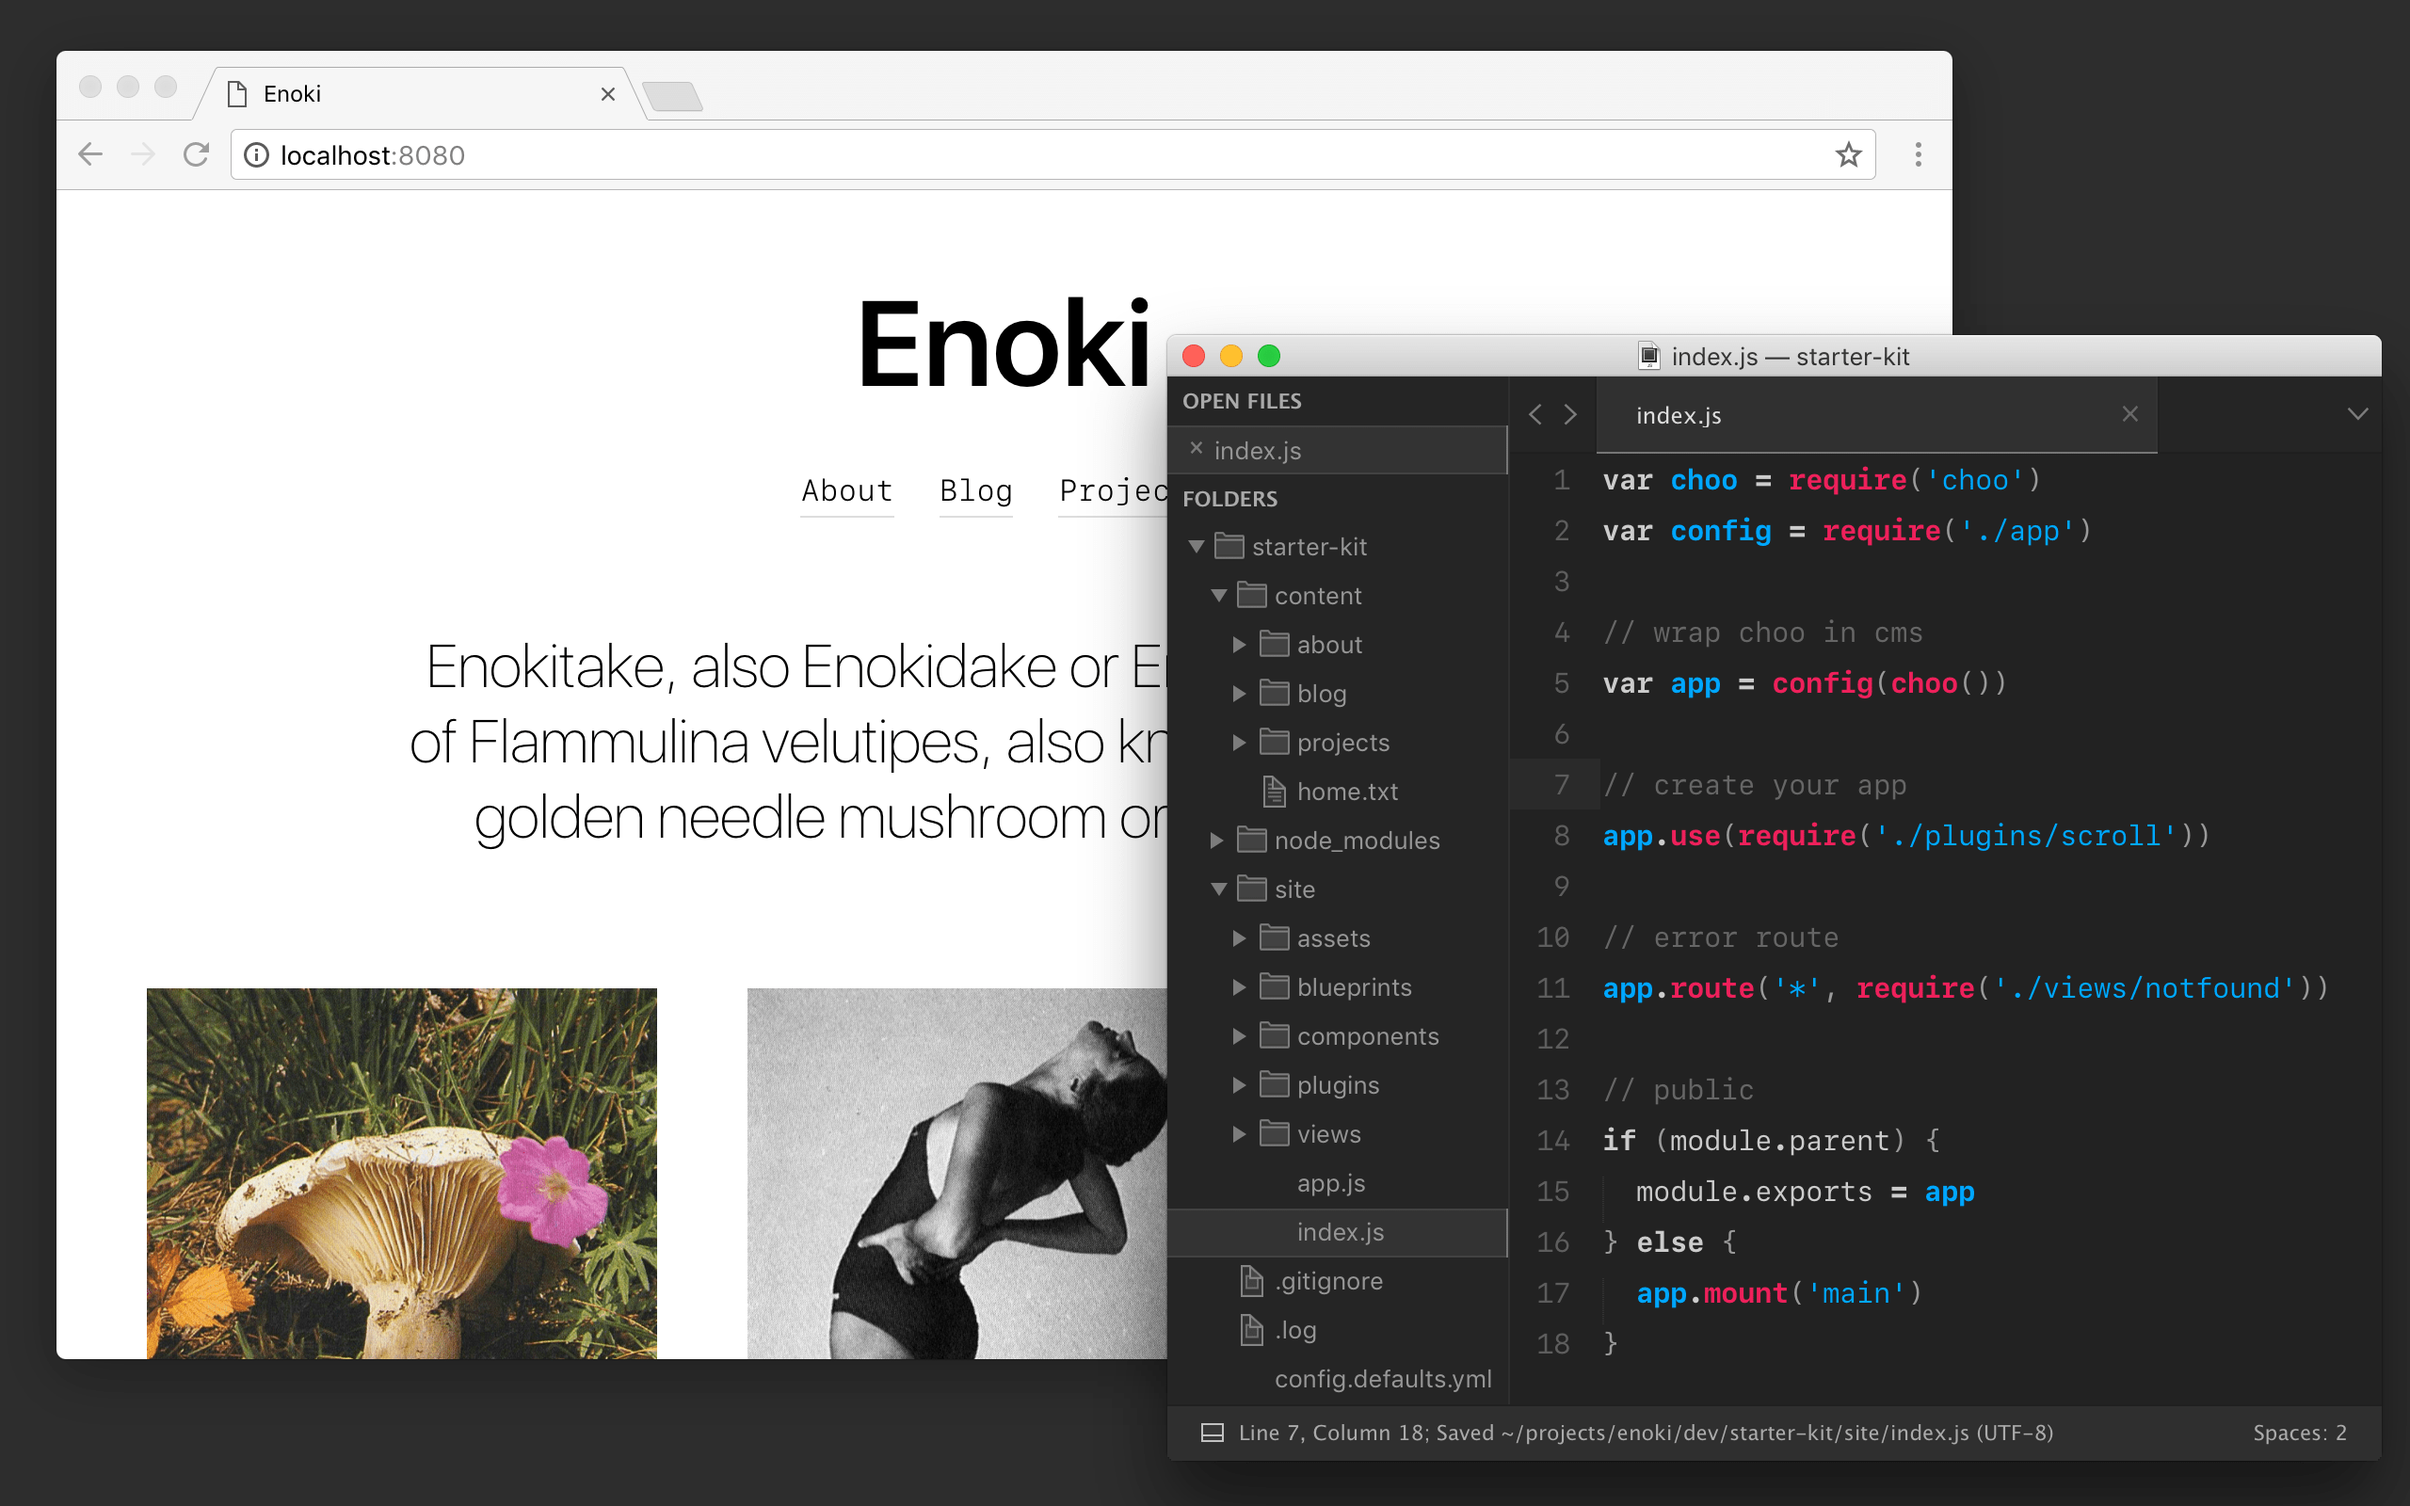
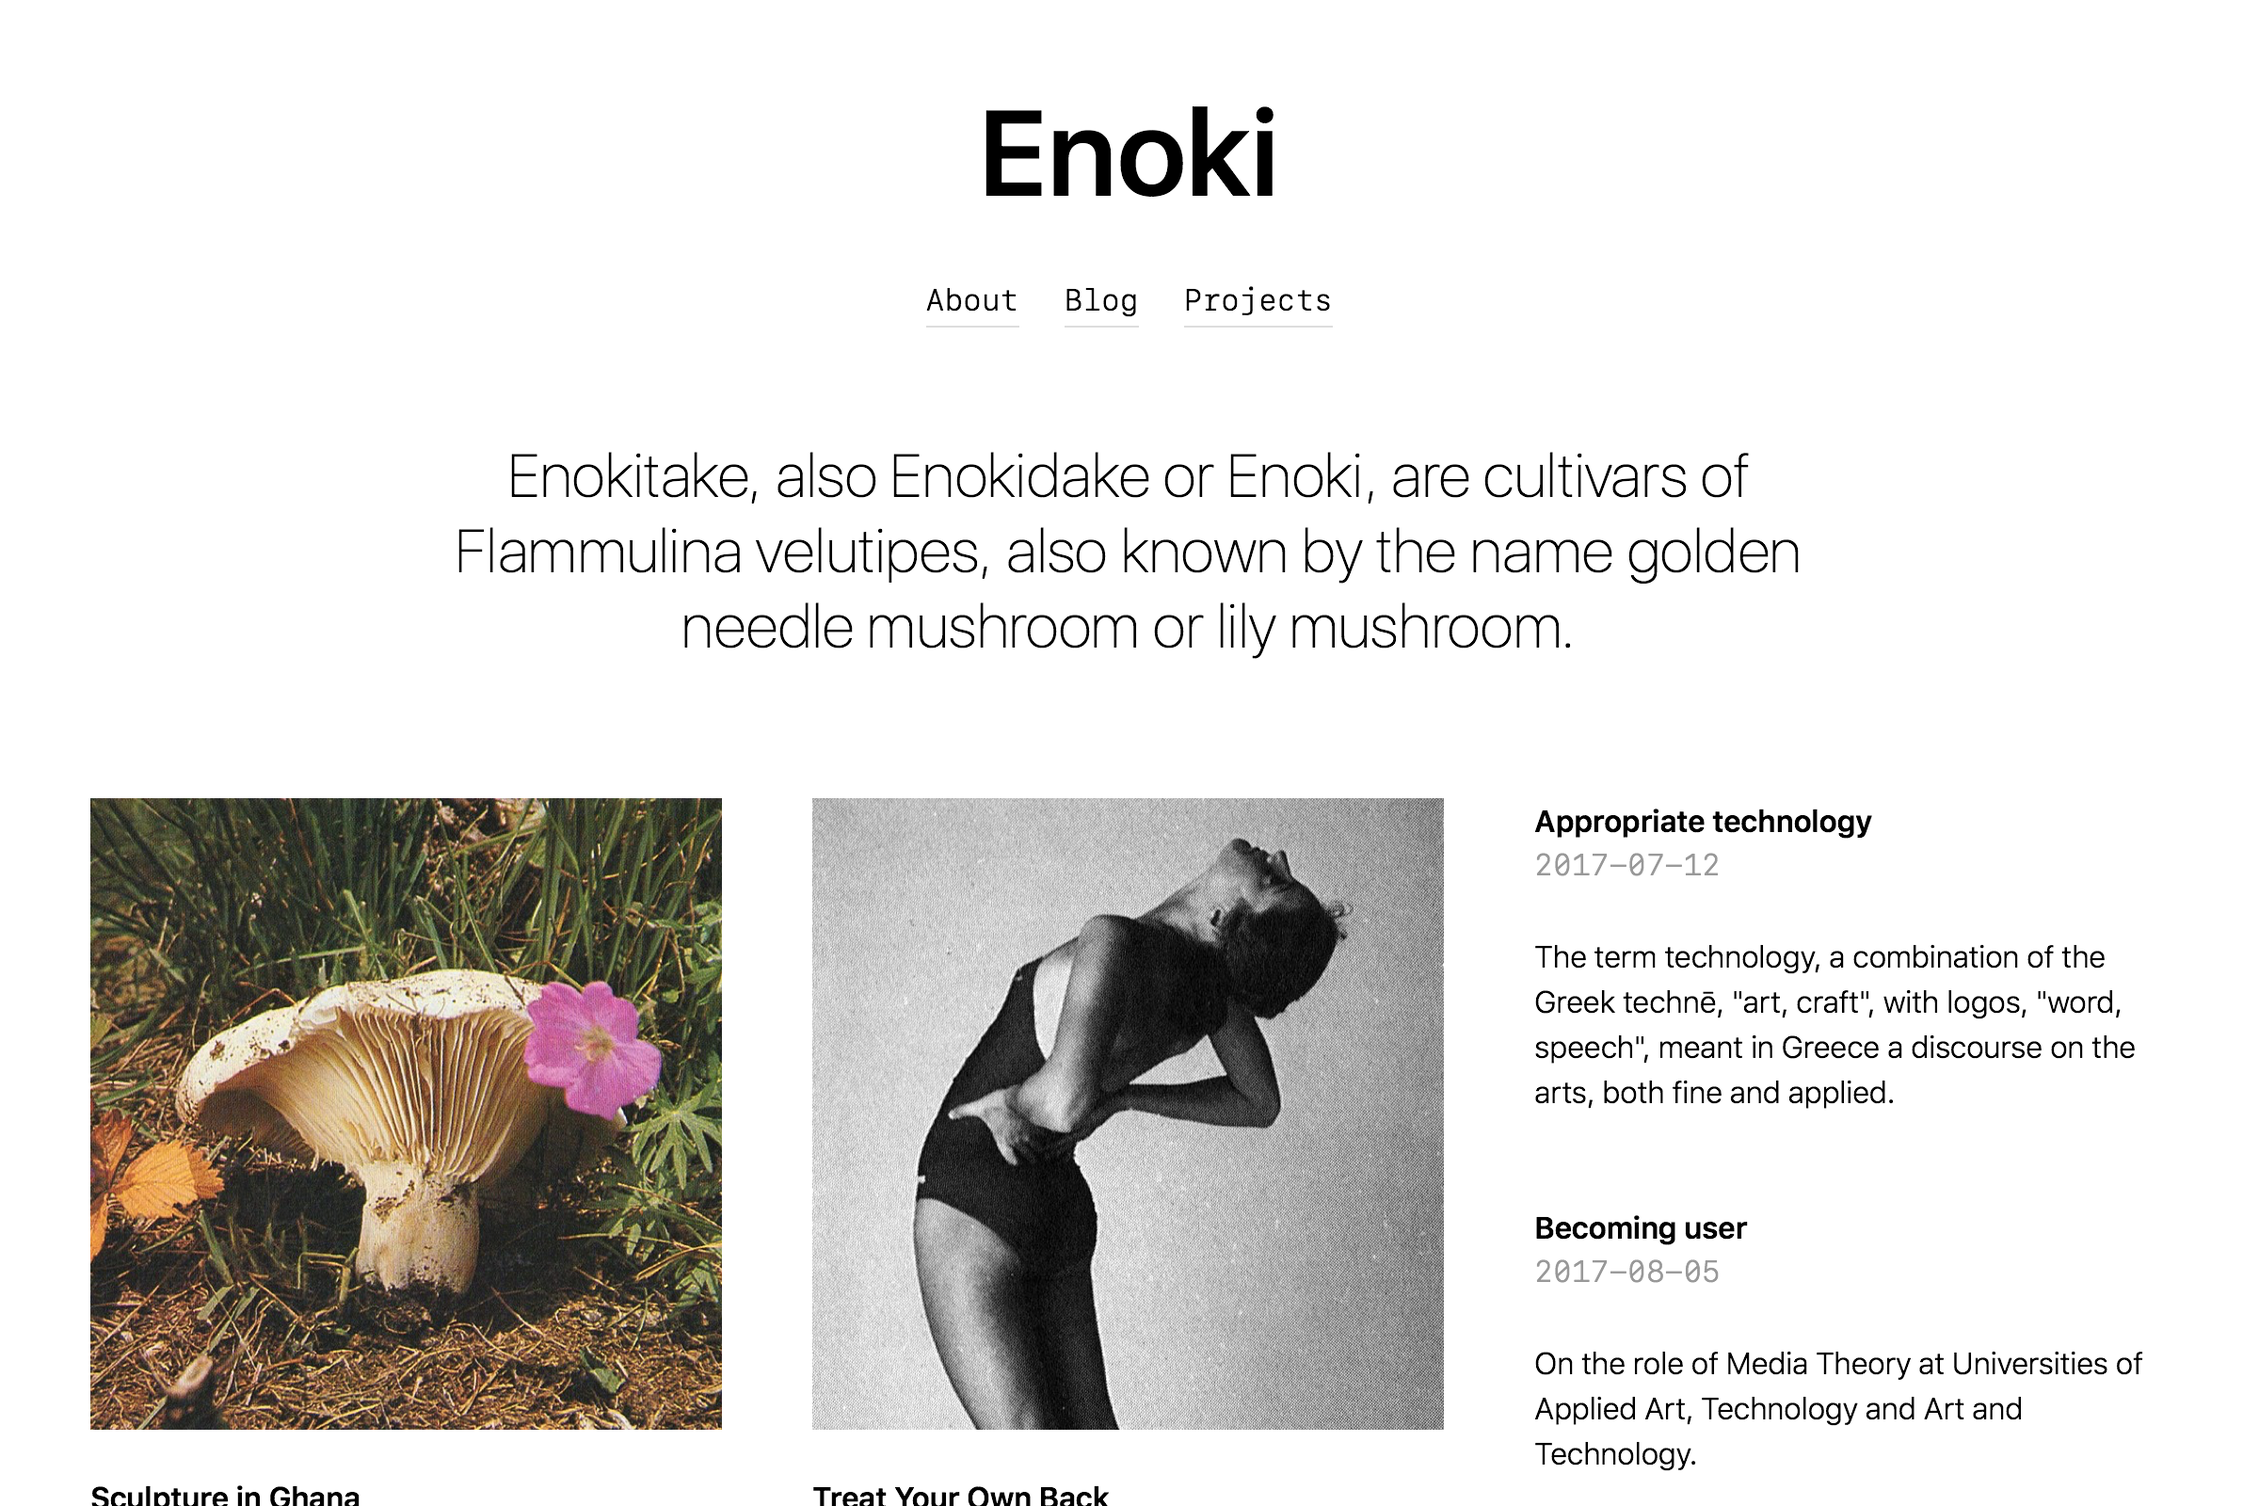
writing

diff --git a/site/assets/index.css b/site/assets/index.css
@@ -30,7 +30,7 @@ body {
   line-height: 1.4;
 }
 
-main {
+.wcontent {
   max-width: 1100px;
   margin: 0 auto;
 }
@@ -68,6 +68,7 @@ img { display: block }
 .psst { position: sticky; position: -webkit-sticky; }
 .psa { position: absolute }
 .psr { position: relative }
+.psf { position: fixed }
 .l0 { left: 0 }
 .t0 { top: 0 }
 .b0 { bottom: 0 }
@@ -76,7 +77,9 @@ img { display: block }
 .z2 { z-index: 2 }
 .z3 { z-index: 3 }
 
+.c1 { width: 8.3333333% }
 .c2 { width: 16.666667% }
+.c3 { width: 25% }
 .c4 { width: 33.3% }
 .c6 { width: 50% }
 .c8 { width: 66.6666667% }
@@ -88,10 +91,13 @@ img { display: block }
 .vhmn100 { min-height: 100vh }
 .mh50vh { min-height: 50vh }
 .mh25vh { min-height: 25vh }
-.wmxcopy { max-width: 30rem }
 .wmxheading { max-width: 55rem }
 .br1 { border-radius: 3px }
 .usn { user-select: none }
+
+.wmxcopy h2 { max-width: 55rem }
+.wmxcopy h3 { max-width: 40rem }
+.wmxcopy p { max-width: 35rem }
 
 .arrow-top { position: relative; }
 .arrow-top:before {
@@ -112,27 +118,30 @@ img { display: block }
 .p0-5 { padding: 0.5rem }
 .p1 { padding: 0.75rem }
 .p2 { padding: 1.5rem }
-.px1 { padding-left: 0.75; padding-right: 0.75; }
-.py1 { padding-top: 0.75; padding-left: 0.75; }
+.px1 { padding-left: 0.75rem; padding-right: 0.75rem; }
+.px2 { padding-left: 1.5rem; padding-right: 1.5rem; }
+.py1 { padding-top: 0.75rem; padding-bottom: 0.75rem; }
+.py2 { padding-top: 1.5rem; padding-bottom: 1.5rem; }
 .pt1 { padding-top: 1.5rem }
 .mr1 { margin-right: 0.75rem }
 .m0 { margin: 0 }
 .my4 { margin: 3rem 0 }
+.mt2 { margin-top: 1.5rem }
 .mt4 { margin-top: 3rem }
 .mb2 { margin-bottom: 1.5rem }
 .mb4 { margin-bottom: 3rem }
 .mt8 { margin-top: 4rem }
 .pt2 { padding-top: 2rem }
 .pb4 { padding-bottom: 4rem }
+.ptheader { padding-top: 4rem }
 
-h1, h2, h3 { font-weight: normal }
-h1, .fs3 { font-size: 4rem }
-h2 { font-size: 2em; }
-h3, .fs1-5 { font-size: 1em; color: #999; }
+h1, h2, h3, h4 { font-weight: normal }
+h2, .fs4 { font-size: 4rem; letter-spacing: -0.025em; line-height: 1; }
+h3 { font-size: 2em; letter-spacing: -0.0125em; line-height: 1.25; }
+h4 { font-size: 1em; color: #999; }
 
 .fs2 { font-size: 2rem }
 .fs3 { font-size: 3rem }
-.fs4 { font-size: 4rem; letter-spacing: -0.025em; line-height: 1; }
 .fs6 { font-size: 6rem }
 
 .serif { font-family: times; }
@@ -146,6 +155,9 @@ h3, .fs1-5 { font-size: 1em; color: #999; }
 ul { padding-left: 1.5rem }
 ul { list-style: none }
 li { position: relative }
+
+.ol1 { outline: 1px solid rgba(127, 127, 127, 0.3) }
+.dev * { outline: 1px solid rgba(255, 0, 0, 0.1) }
 
 .nav-active { position: relative; }
 
@@ -161,6 +173,7 @@ ul li:before {
 .ffsans { font-family: 'Untitled Sans', -apple-system, sans-serif }
 .ffmono { font-family: "SFMono-Regular", Consolas, "Liberation Mono", Menlo, Courier, monospace }
 
+.bgwhite { background: #fff }
 .bggreylight { background: #eee }
 .bgblack { background: #000 }
 .tcblack, .tcblack a { color: #000 }
@@ -183,7 +196,18 @@ pre {
   overflow-x: auto;
 }
 
-.bt1 { border-top: 1px solid #ddd }
+.bt1 { border-top: 1px solid rgba(0, 0, 0, 0.15) }
+.bb1 { border-bottom: 1px solid rgba(0, 0, 0, 0.15) }
+
+.bheader:after {
+  content: '';
+  height: 1px;
+  position: absolute;
+  left: 1.5rem;
+  right: 1.5rem;
+  bottom: -1px;
+  background: rgba(0, 0, 0, 0.15);
+}
 
 a.button {
   border-bottom: 0;
@@ -220,8 +244,10 @@ input {
   code, pre { font-size: 1.8rem }
   ul { padding-left: 3rem; }
   ul li:before { left: -3rem; }
-  .wmxcopy { max-width: 60rem }
+  .wmxcopy p, .wmxcopy h2, .wmxcopy h3 { max-width: 120rem }
   .wmxheading { max-width: 120rem }
 
   [sm~="c12"] { width: 100% }
+  [sm~="psr"] { position: relative }
+  [sm~="pt0"] { padding-top: 0 }
 }

diff --git a/site/views/log.js b/site/views/log.js
@@ -7,41 +7,67 @@ module.exports = wrapper(log)
 
 function log (state, emit) {
   return html`
-    <div class="x xw p1">
+    <div class="x xw p1" style="margin-bottom: -1.6rem">
       <div class="c12">
-        ${objectValues(state.page.children).map(entry)}
+        ${objectValues(state.page.children).reverse().map(entry)}
       </div>
     </div>
   `
 }
 
 function entry (props) {
-  var format = getFormat(props.format)
-  return format ? format(props) : ''
+  var entryFormat = getFormat(props.format)
+  if (!entryFormat) return ''
+
+  return html`
+    <div class="c12">
+      <div class="c12 py2">
+        ${entryFormat(props)}
+      </div>
+      <div class="c12 p1"><div class="bb1"></div></div>
+    </div>
+  `
 }
 
-function getFormat (format) {
-  switch (format) {
+function getFormat (entryFormat) {
+  switch (entryFormat) {
     case 'blocks': return blocks
-    return basic
+    case 'longform': return longform
   }
+  return basic
+}
+
+function longform (props) {
+  return html`
+    <div class="c12 x xw">
+      <div class="c12 p1">
+        <div class="wmxheading mb2">
+          <h2>${props.title}</h2>
+        </div>
+      </div>
+      <div class="c4 p1 tcgrey">
+        ${props.date}<br>
+        ${props.tags.join(', ')}
+      </div>
+      <div class="c8 p1">
+        <div class="copy wmxcopy">
+          ${props.text ? format(props.text) : ''}
+        </div>
+      </div>
+    </div>
+  `
 }
 
 function blocks (props) {
   return html`
     <div class="x xw psr">
-      <div class="c8 x xw" sm="c12">
-        ${props.blocks.map(block)}
-      </div>
-      <div class="c4 psr" sm="c12">
-        <div class="psst" style="top: 1rem">
-          <div class="p1 copy">
-            ${props.text ? format(props.text) : ''}
-          </div>
-          <div class="p1 tcgrey">
-            <a href="${props.url}">Permalink</a>
-          </div>
+      <div class="c12 p1" sm="c12">
+        <div class="wmxcopy copy">
+          ${props.text ? format(props.text) : ''}
         </div>
+      </div>
+      <div class="c12 x xw" sm="c12">
+        ${props.blocks.map(block)}
       </div>
     </div>
   `
@@ -68,6 +94,6 @@ function blocks (props) {
 
 function basic (props) {
   return html`
-    <div>default</div>
+    <div class="p1">default</div>
   `
 }

diff --git a/site/views/guides.js b/site/views/guides.js
@@ -7,8 +7,8 @@ module.exports = wrapper(view)
 
 function view (state, emit) {
   return html`
-    <div class="x xw c12 px1" style="padding-top: 6.25vh; padding-bottom: 6.25vh">
-      ${objectValues(state.page.children).map(entry)}
+    <div class="x xw c12 px1" style="margin-bottom: -0.8rem">
+      ${objectValues(state.page.children).reverse().map(entry)}
     </div>
   `
 }
@@ -16,29 +16,32 @@ function view (state, emit) {
 function entry (props) {
   var image = props.files[props.thumbnail] || { }
   return html`
-    <a href="${props.url}" class="x xw c12" style="margin: 6.25vh 0">
-      <div class="c8 p1 mb2 fs4 ase wmxheading tid" sm="c12">
-        ${props.title}
-      </div>
-      <div class="c4 p1 ase mb2" sm="c12">
-        <div
-          class="psr bggreylight"
-          style="padding-bottom: ${image.ratioY * 100}%"
-        >
-          <img src="${image.url}" class="psa t0 l0 c12" />
+    <div class="c12">
+      <a href="${props.url}" class="x xw c12 py2">
+        <div class="c8 p1 mb2 fs4 ase wmxheading tid" sm="c12">
+          ${props.title}
         </div>
-      </div>
-      <div class="c4 p1 tcgrey" sm="c12">
-        <ul>
-          <li>${props.date}</li>
-          <li>${props.tags.join(', ')}</li>
-        </ul>
-      </div>
-      <div class="c6 p1" sm="c12">
-        <div class="copy wmxcopy">
-          ${format(props.excerpt)}
+        <div class="c4 p1 ase mb2" sm="c12">
+          <div
+            class="psr bggreylight ${props.thumbnailborder ? 'ol1' : ''}"
+            style="padding-bottom: ${image.ratioY * 100}%"
+          >
+            <img src="${image.url}" class="psa t0 l0 c12" />
+          </div>
         </div>
-      </div>
-    </a>
+        <div class="c4 p1 tcgrey" sm="c12">
+          <ul>
+            <li>${props.date}</li>
+            <li>${props.tags.join(', ')}</li>
+          </ul>
+        </div>
+        <div class="c6 p1" sm="c12">
+          <div class="copy wmxcopy">
+            ${format(props.excerpt)}
+          </div>
+        </div>
+      </a>
+      <div class="c12 p1"><div class="bb1"></div></div>
+    </div>
   `
 }

diff --git a/site/components/wrapper.js b/site/components/wrapper.js
@@ -7,9 +7,9 @@ module.exports = wrapper
 function wrapper (view) {
   return function (state, emit) {
     return html`
-      <main class="x xdc c12 vhmn100">
-        <div class="c12 p1 usn">
-          <div class="x xw">
+      <main class="x xdc c12 vhmn100 ptheader wcontent" sm="pt0">
+        <div class="c12 usn psf t0 l0 r0 z3 bgwhite lh1" sm="psr">
+          <div class="x xw wcontent p1 psr bheader">
             ${title(state.content)}
             ${navigation({
               display: state.content.navigation !== false,
@@ -30,9 +30,11 @@ function wrapper (view) {
 
 function title (state, emit) {
   return html` 
-    <div class="x c6 p1" sm="c12">
-      <a href="/" class="nbb tcblack ttu mr1">${state.title}</a>
-      <span class="tcgrey">(pre-alpha)</span>
+    <div class="x c6" sm="c12">
+      <div class="p1">
+        <a href="/" class="nbb tcblack ttu mr1">${state.title}</a>
+        <span class="tcgrey">(pre-alpha)</span>
+      </div>
     </div>
   `
 }
@@ -76,16 +78,19 @@ function navigation (state, emit) {
 
 function footer (state, emit) {
   return html`
-    <div class="c12 p1 tcgrey">
-      <div class="c12 x xjb">
-        <div class="ttu p1 c4">
-          Enoki
-        </div>
-        <div class="c4 p1 tac">
-          <a href="https://github.com/jondashkyle/enoki-site/blob/master/content/${state.page.url}/${state.page.file}">Edit this page</a>
-        </div>
-        <div class="c4 p1 tar">
-          <a href="#">Back to Top</a>
+    <div class="c12 tcgrey lh1 bgwhite psr z2">
+      <div class="c12 px2"><div class="bt1 c12"></div></div>
+      <div class="x p1 c12">
+        <div class="c12 x xjb">
+          <div class="ttu p1 c4">
+            Enoki
+          </div>
+          <div class="c4 p1 tac">
+            <a href="https://github.com/jondashkyle/enoki-site/blob/master/content/${state.page.url}/${state.page.file}">Edit this page</a>
+          </div>
+          <div class="c4 p1 tar">
+            <a href="#">Back to Top</a>
+          </div>
         </div>
       </div>
     </div>

diff --git a/site/views/home.js b/site/views/home.js
@@ -9,11 +9,11 @@ module.exports = wrapper(home)
 
 function home (state, emit) {
   return html`
-    <div class="c12 fs1 x xw">
-      <div class="c12 fs4 p2 psr z2 wmxheading">
+    <div class="c12 fs1 x xw p1">
+      <div class="c12 fs4 p1 mt2 psr z2 wmxheading">
         ${state.page.heading}
       </div>
-      <div class="c6 p1" sm="c12">
+      <div class="c6" sm="c12">
         <div class="p1">
           ${text(state.page.text)}
         </div>
@@ -21,7 +21,7 @@ function home (state, emit) {
           ${text(state.page.contact)}
         </div>
       </div>
-      <div class="c6 p2 ophc" sm="c12">
+      <div class="c6 p1 ophc" sm="c12">
         <div
           class="psr bggreylight"
           style="padding-bottom: 100%; margin-top: -11rem"
